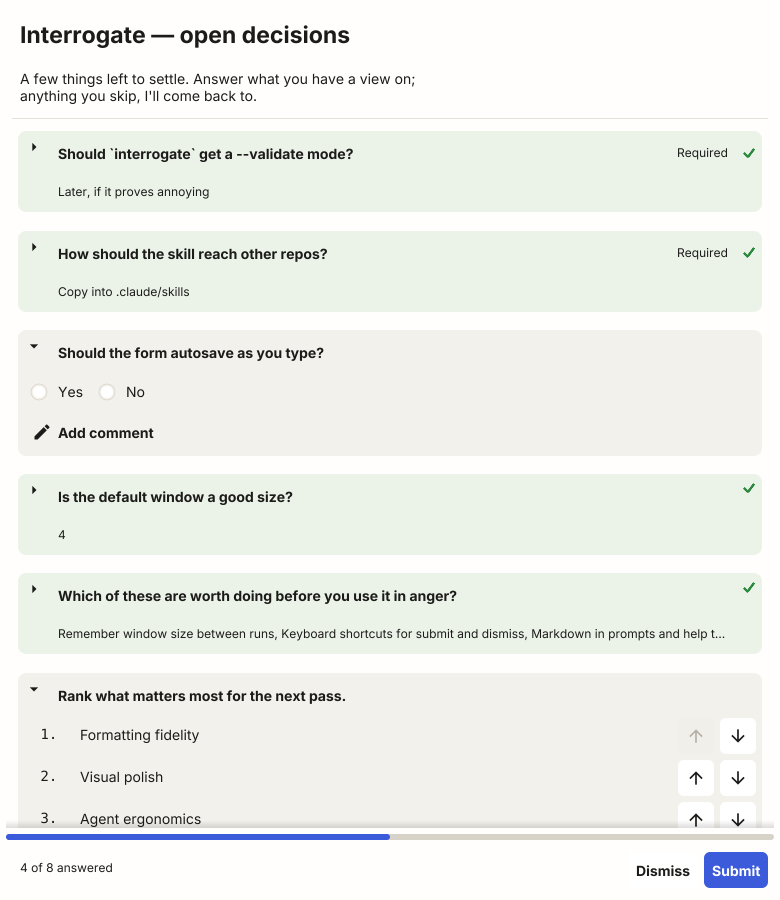
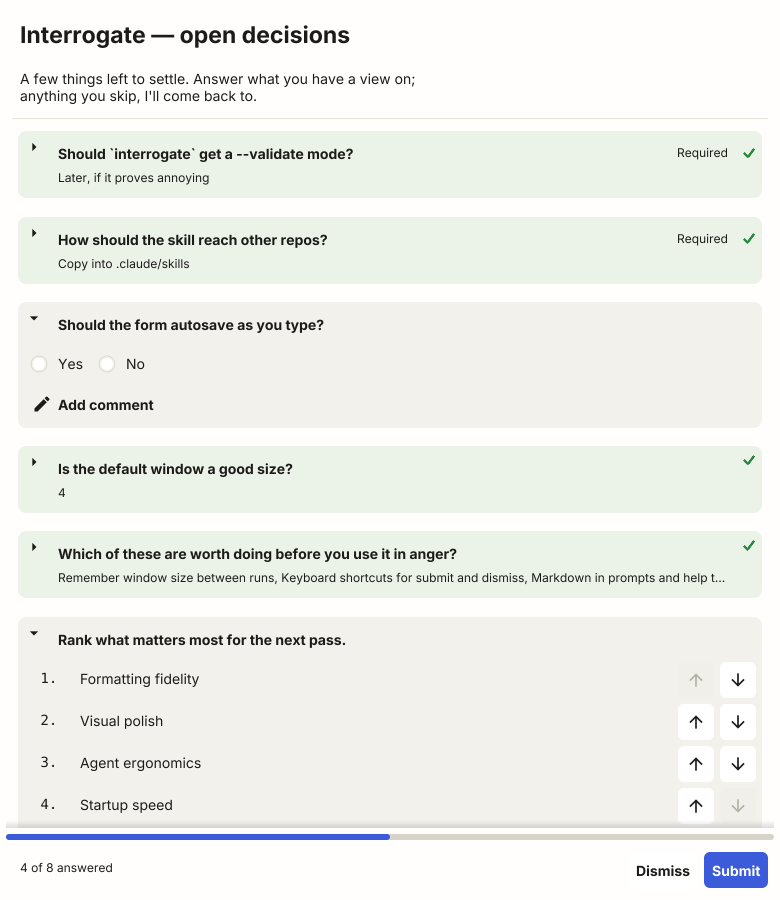
Tighten a collapsed question, and lift the whole card on hover
Two things made a folded page look wrong. The prompt and the answer were
a box layout apart, on top of the padding each label already carries, so
they read as two separate things with a band of dead space under them.
They now go through a layout that overlaps that built-in padding, which
puts them where two lines of the same paragraph would sit, and takes a
dozen pixels off every folded card.

The hover highlight was painted inside the header, where the card's own
padding left it as a rounded panel inset from the card edge -- a second
card inside the first, which is what made the spacing look broken. The
header now reports the pointer to its card and the whole card lifts, so
there is one panel and it is the one that was always there. The overlay
is composited onto the card colour rather than filled over it, or the
page shows through. The header also asks for a pointer cursor, which is
the affordance a row gets instead of looking like a button.

diff --git a/internal/ui/widget_header.go b/internal/ui/widget_header.go
@@ -1,11 +1,9 @@
 package ui
 
 import (
-	"image/color"
 	"strings"
 
 	"fyne.io/fyne/v2"
-	"fyne.io/fyne/v2/canvas"
 	"fyne.io/fyne/v2/container"
 	"fyne.io/fyne/v2/driver/desktop"
 	"fyne.io/fyne/v2/theme"
@@ -40,12 +38,16 @@ type questionHeader struct {
 	note    *widget.Icon
 	tick    *tickMark
 
-	stack      *fyne.Container // the prompt, with the answer beneath it
-	row        *fyne.Container
-	background *canvas.Rectangle
+	stack *fyne.Container // the prompt, with the answer beneath it
+	row   *fyne.Container
+
+	// onHover reports the pointer arriving and leaving. The highlight belongs
+	// to the whole card rather than to the header: painted here it was a
+	// rounded panel inset by the card's own padding, and read as a second card
+	// inside the first.
+	onHover func(bool)
 
 	collapsed bool
-	hovered   bool
 }
 
 func newQuestionHeader(q *questionnaire.Question, onTap func()) *questionHeader {
@@ -85,7 +87,7 @@ func newQuestionHeader(q *questionnaire.Question, onTap func()) *questionHeader 
 	// enough to wrap -- which is most of them, on a real questionnaire -- left
 	// the answer stranded out to the right, level with a line of the question
 	// it had nothing to do with.
-	h.stack = container.NewVBox(h.prompt, h.summary)
+	h.stack = container.New(&tightStack{}, h.prompt, h.summary)
 
 	// Both the chevron and the trailing group are boxed so they sit against the
 	// prompt's first line. Left to the border they stretch to the full height
@@ -99,9 +101,7 @@ func newQuestionHeader(q *questionnaire.Question, onTap func()) *questionHeader 
 }
 
 func (h *questionHeader) CreateRenderer() fyne.WidgetRenderer {
-	h.background = canvas.NewRectangle(h.tint())
-	h.background.CornerRadius = theme.Size(theme.SizeNameSelectionRadius)
-	return widget.NewSimpleRenderer(container.NewStack(h.background, h.row))
+	return widget.NewSimpleRenderer(h.row)
 }
 
 // Content exposes the row. A widget's children hang off its renderer, so
@@ -149,43 +149,30 @@ func (h *questionHeader) sync() {
 	h.Refresh()
 }
 
-// Refresh re-resolves the hover tint for the same reason the card does: a form
-// open across a light/dark switch must not keep the colour it started with.
-func (h *questionHeader) Refresh() {
-	if h.background != nil {
-		h.background.FillColor = h.tint()
-		h.background.CornerRadius = theme.Size(theme.SizeNameSelectionRadius)
-		h.background.Refresh()
-	}
-	h.BaseWidget.Refresh()
-}
-
-// tint is the hover highlight, and nothing at all when the pointer is elsewhere:
-// the card behind it already provides the panel.
-func (h *questionHeader) tint() color.Color {
-	if !h.hovered {
-		return color.Transparent
-	}
-	return theme.Color(theme.ColorNameHover)
-}
-
 func (h *questionHeader) Tapped(*fyne.PointEvent) {
 	if h.onTap != nil {
 		h.onTap()
 	}
 }
 
-func (h *questionHeader) MouseIn(*desktop.MouseEvent) {
-	h.hovered = true
-	h.Refresh()
-}
+// SetHoverReporter says where to report the pointer arriving and leaving.
+func (h *questionHeader) SetHoverReporter(report func(bool)) { h.onHover = report }
 
-func (h *questionHeader) MouseOut() {
-	h.hovered = false
-	h.Refresh()
-}
+func (h *questionHeader) MouseIn(*desktop.MouseEvent) { h.hover(true) }
+
+func (h *questionHeader) MouseOut() { h.hover(false) }
 
 func (h *questionHeader) MouseMoved(*desktop.MouseEvent) {}
+
+func (h *questionHeader) hover(in bool) {
+	if h.onHover != nil {
+		h.onHover(in)
+	}
+}
+
+// Cursor says the row can be pressed, which is the affordance a header has
+// instead of looking like a button.
+func (h *questionHeader) Cursor() desktop.Cursor { return desktop.PointerCursor }
 
 // show is Show or Hide by boolean, which reads better than the four-line if
 // this file would otherwise repeat.
@@ -197,9 +184,59 @@ func show(obj fyne.CanvasObject, visible bool) {
 	obj.Hide()
 }
 
-// The header answers to tapping and to the pointer arriving; everything else
-// belongs to what is inside it.
+// tightStack stacks the prompt and the answer as one block.
+//
+// A box layout would set them a whole padding apart, on top of the padding each
+// label already carries, leaving a gap wide enough to read as two separate
+// things. Overlapping by that built-in padding puts them where two lines of the
+// same paragraph would sit.
+type tightStack struct{}
+
+func (t *tightStack) overlap() float32 { return theme.Size(theme.SizeNameInnerPadding) }
+
+func (t *tightStack) MinSize(objects []fyne.CanvasObject) fyne.Size {
+	var size fyne.Size
+	first := true
+	for _, o := range objects {
+		if !o.Visible() {
+			continue
+		}
+		min := o.MinSize()
+		if min.Width > size.Width {
+			size.Width = min.Width
+		}
+		if !first {
+			size.Height -= t.overlap()
+		}
+		size.Height += min.Height
+		first = false
+	}
+	return size
+}
+
+func (t *tightStack) Layout(objects []fyne.CanvasObject, size fyne.Size) {
+	y := float32(0)
+	first := true
+	for _, o := range objects {
+		if !o.Visible() {
+			continue
+		}
+		if !first {
+			y -= t.overlap()
+		}
+		height := o.MinSize().Height
+		o.Resize(fyne.NewSize(size.Width, height))
+		o.Move(fyne.NewPos(0, y))
+		y += height
+		first = false
+	}
+}
+
+// The header answers to tapping, to the pointer arriving, and to what the
+// cursor should look like; everything else belongs to what is inside it.
 var (
-	_ fyne.Tappable     = (*questionHeader)(nil)
-	_ desktop.Hoverable = (*questionHeader)(nil)
+	_ fyne.Tappable      = (*questionHeader)(nil)
+	_ desktop.Hoverable  = (*questionHeader)(nil)
+	_ desktop.Cursorable = (*questionHeader)(nil)
+	_ fyne.Layout        = (*tightStack)(nil)
 )

diff --git a/internal/ui/widget_header_test.go b/internal/ui/widget_header_test.go
@@ -200,8 +200,16 @@ func TestTheAnswerSitsUnderThePrompt(t *testing.T) {
 		t.Errorf("the answer is at y=%v, want it below the prompt at y=%v",
 			h.summary.Position().Y, h.prompt.Position().Y)
 	}
-	if h.summary.Position().Y < h.prompt.Position().Y+h.prompt.Size().Height {
-		t.Error("the answer overlaps the prompt rather than sitting under it")
+	// The two overlap by the padding a label carries of its own, so they read
+	// as one block rather than two things -- but never by more than that, or
+	// the text itself would collide.
+	overlap := (h.prompt.Position().Y + h.prompt.Size().Height) - h.summary.Position().Y
+	if overlap > theme.Size(theme.SizeNameInnerPadding) {
+		t.Errorf("the answer overlaps the prompt by %v, more than the padding it can absorb", overlap)
+	}
+	if got, want := h.stack.MinSize().Height,
+		h.prompt.MinSize().Height+h.summary.MinSize().Height; got >= want {
+		t.Errorf("the stack asks for %v, want less than the %v two loose labels would", got, want)
 	}
 }
 
@@ -272,23 +280,53 @@ func TestTappingThePromptReachesTheHeader(t *testing.T) {
 	}
 }
 
-func TestHeaderTintsOnHover(t *testing.T) {
+// The highlight belongs to the whole card. Painted inside the header it was a
+// rounded panel inset by the card's own padding, and read as a second card.
+func TestHoveringTheHeaderLiftsTheWholeCard(t *testing.T) {
+	f, _ := build(t, uiDoc)
+	c := f.cards["storage"]
+
+	restore := useTheme(t, newTheme())
+	defer restore()
+	c.card.CreateRenderer()
+	plain := c.card.rect.FillColor
+
+	c.header.MouseIn(&desktop.MouseEvent{})
+	if !c.card.Hovered() {
+		t.Fatal("the header did not report the pointer to its card")
+	}
+	if c.card.rect.FillColor == plain {
+		t.Error("hovering should lift the card, or nothing says the row can be pressed")
+	}
+
+	c.header.MouseOut()
+	if c.card.Hovered() {
+		t.Error("the card should drop again when the pointer leaves")
+	}
+	if got := c.card.rect.FillColor; got != plain {
+		t.Errorf("fill = %v after the pointer left, want the plain %v", got, plain)
+	}
+}
+
+// The lift is a translucent overlay in the theme, so it has to be composited
+// onto the card rather than painted as a fill -- the page would show through.
+func TestTheHoverLiftIsOpaque(t *testing.T) {
+	blended := over(color.NRGBA{R: 0x20, G: 0x20, B: 0x20, A: 0xFF},
+		color.NRGBA{R: 0xFF, G: 0xFF, B: 0xFF, A: 0x20})
+	r, g, b, a := blended.RGBA()
+	if a>>8 != 0xFF {
+		t.Errorf("alpha = %v, want an opaque card", a>>8)
+	}
+	if r>>8 <= 0x20 || g>>8 <= 0x20 || b>>8 <= 0x20 {
+		t.Errorf("blended to %v, want it lighter than the base", blended)
+	}
+}
+
+func TestTheHeaderAsksForAPointer(t *testing.T) {
 	q := &questionnaire.Question{ID: "q", Prompt: "?", Type: questionnaire.TypeText}
 	h := newQuestionHeader(q, func() {})
-	h.CreateRenderer()
-
-	if h.background.FillColor != color.Transparent {
-		t.Error("an un-hovered header should add nothing to the card behind it")
-	}
-
-	h.MouseIn(&desktop.MouseEvent{})
-	if h.background.FillColor == color.Transparent {
-		t.Error("hovering should tint the header, or nothing says it can be pressed")
-	}
-
-	h.MouseOut()
-	if h.background.FillColor != color.Transparent {
-		t.Error("the tint should go when the pointer leaves")
+	if got := h.Cursor(); got != desktop.PointerCursor {
+		t.Errorf("cursor = %v, want a pointer over something that can be pressed", got)
 	}
 }
 

diff --git a/internal/ui/widget_card.go b/internal/ui/widget_card.go
@@ -27,6 +27,12 @@ type cardBox struct {
 	// place that knows whether a question is folded and answered is the one
 	// place that decides.
 	settled bool
+
+	// hovered lifts the whole card while the pointer is on its header. The
+	// highlight covers the card rather than sitting inside it: painted within
+	// the header it was a rounded panel inset by the card's own padding, and
+	// read as a second card inside the first.
+	hovered bool
 }
 
 func newCardBox(content fyne.CanvasObject) *cardBox {
@@ -53,6 +59,18 @@ func (c *cardBox) SetSettled(settled bool) {
 // Settled reports which panel the card is painting.
 func (c *cardBox) Settled() bool { return c.settled }
 
+// SetHovered lifts or drops the whole card.
+func (c *cardBox) SetHovered(hovered bool) {
+	if c.hovered == hovered {
+		return
+	}
+	c.hovered = hovered
+	c.Refresh()
+}
+
+// Hovered reports whether the card is currently lifted.
+func (c *cardBox) Hovered() bool { return c.hovered }
+
 // Content is what the card paints behind. A widget's children are otherwise
 // reachable only through its renderer, which makes the question inside a card
 // invisible to anything walking the object tree.
@@ -67,6 +85,20 @@ func (c *cardBox) Refresh() {
 	c.BaseWidget.Refresh()
 }
 
+// over composites a translucent colour onto an opaque one. The theme's hover
+// colour is an overlay, so painting it as a fill would show the page through the
+// card rather than lifting it.
+func over(base, top color.Color) color.Color {
+	br, bg, bb, _ := base.RGBA()
+	tr, tg, tb, ta := top.RGBA()
+	// RGBA reports alpha-premultiplied values, so the overlay's own colour is
+	// already scaled by its alpha and only the base needs attenuating.
+	blend := func(b, t uint32) uint8 {
+		return uint8((t + b*(0xFFFF-ta)/0xFFFF) >> 8)
+	}
+	return color.NRGBA{R: blend(br, tr), G: blend(bg, tg), B: blend(bb, tb), A: 0xFF}
+}
+
 // colour resolves the card background through the theme, so it tracks the
 // current variant rather than whatever was current when the card was built.
 func (c *cardBox) colour() color.Color {
@@ -79,8 +111,12 @@ func (c *cardBox) colour() color.Color {
 	if !ok {
 		return color.Transparent // a theme without card colours simply gets none
 	}
+	base := provider.QuestionCard(settings.ThemeVariant())
 	if c.settled {
-		return provider.SettledCard(settings.ThemeVariant())
+		base = provider.SettledCard(settings.ThemeVariant())
 	}
-	return provider.QuestionCard(settings.ThemeVariant())
+	if c.hovered {
+		return over(base, theme.Color(theme.ColorNameHover))
+	}
+	return base
 }

diff --git a/internal/ui/form.go b/internal/ui/form.go
@@ -237,6 +237,7 @@ func (f *form) buildCard(q *questionnaire.Question) *card {
 	// failing to do, so the separator goes: a card edge and a rule together
 	// only look fussy.
 	c.card = newCardBox(container.NewPadded(container.NewVBox(c.header, c.body)))
+	c.header.SetHoverReporter(c.card.SetHovered)
 	c.root = container.NewPadded(c.card)
 
 	// A question that arrives already answered opens folded. It is settled
